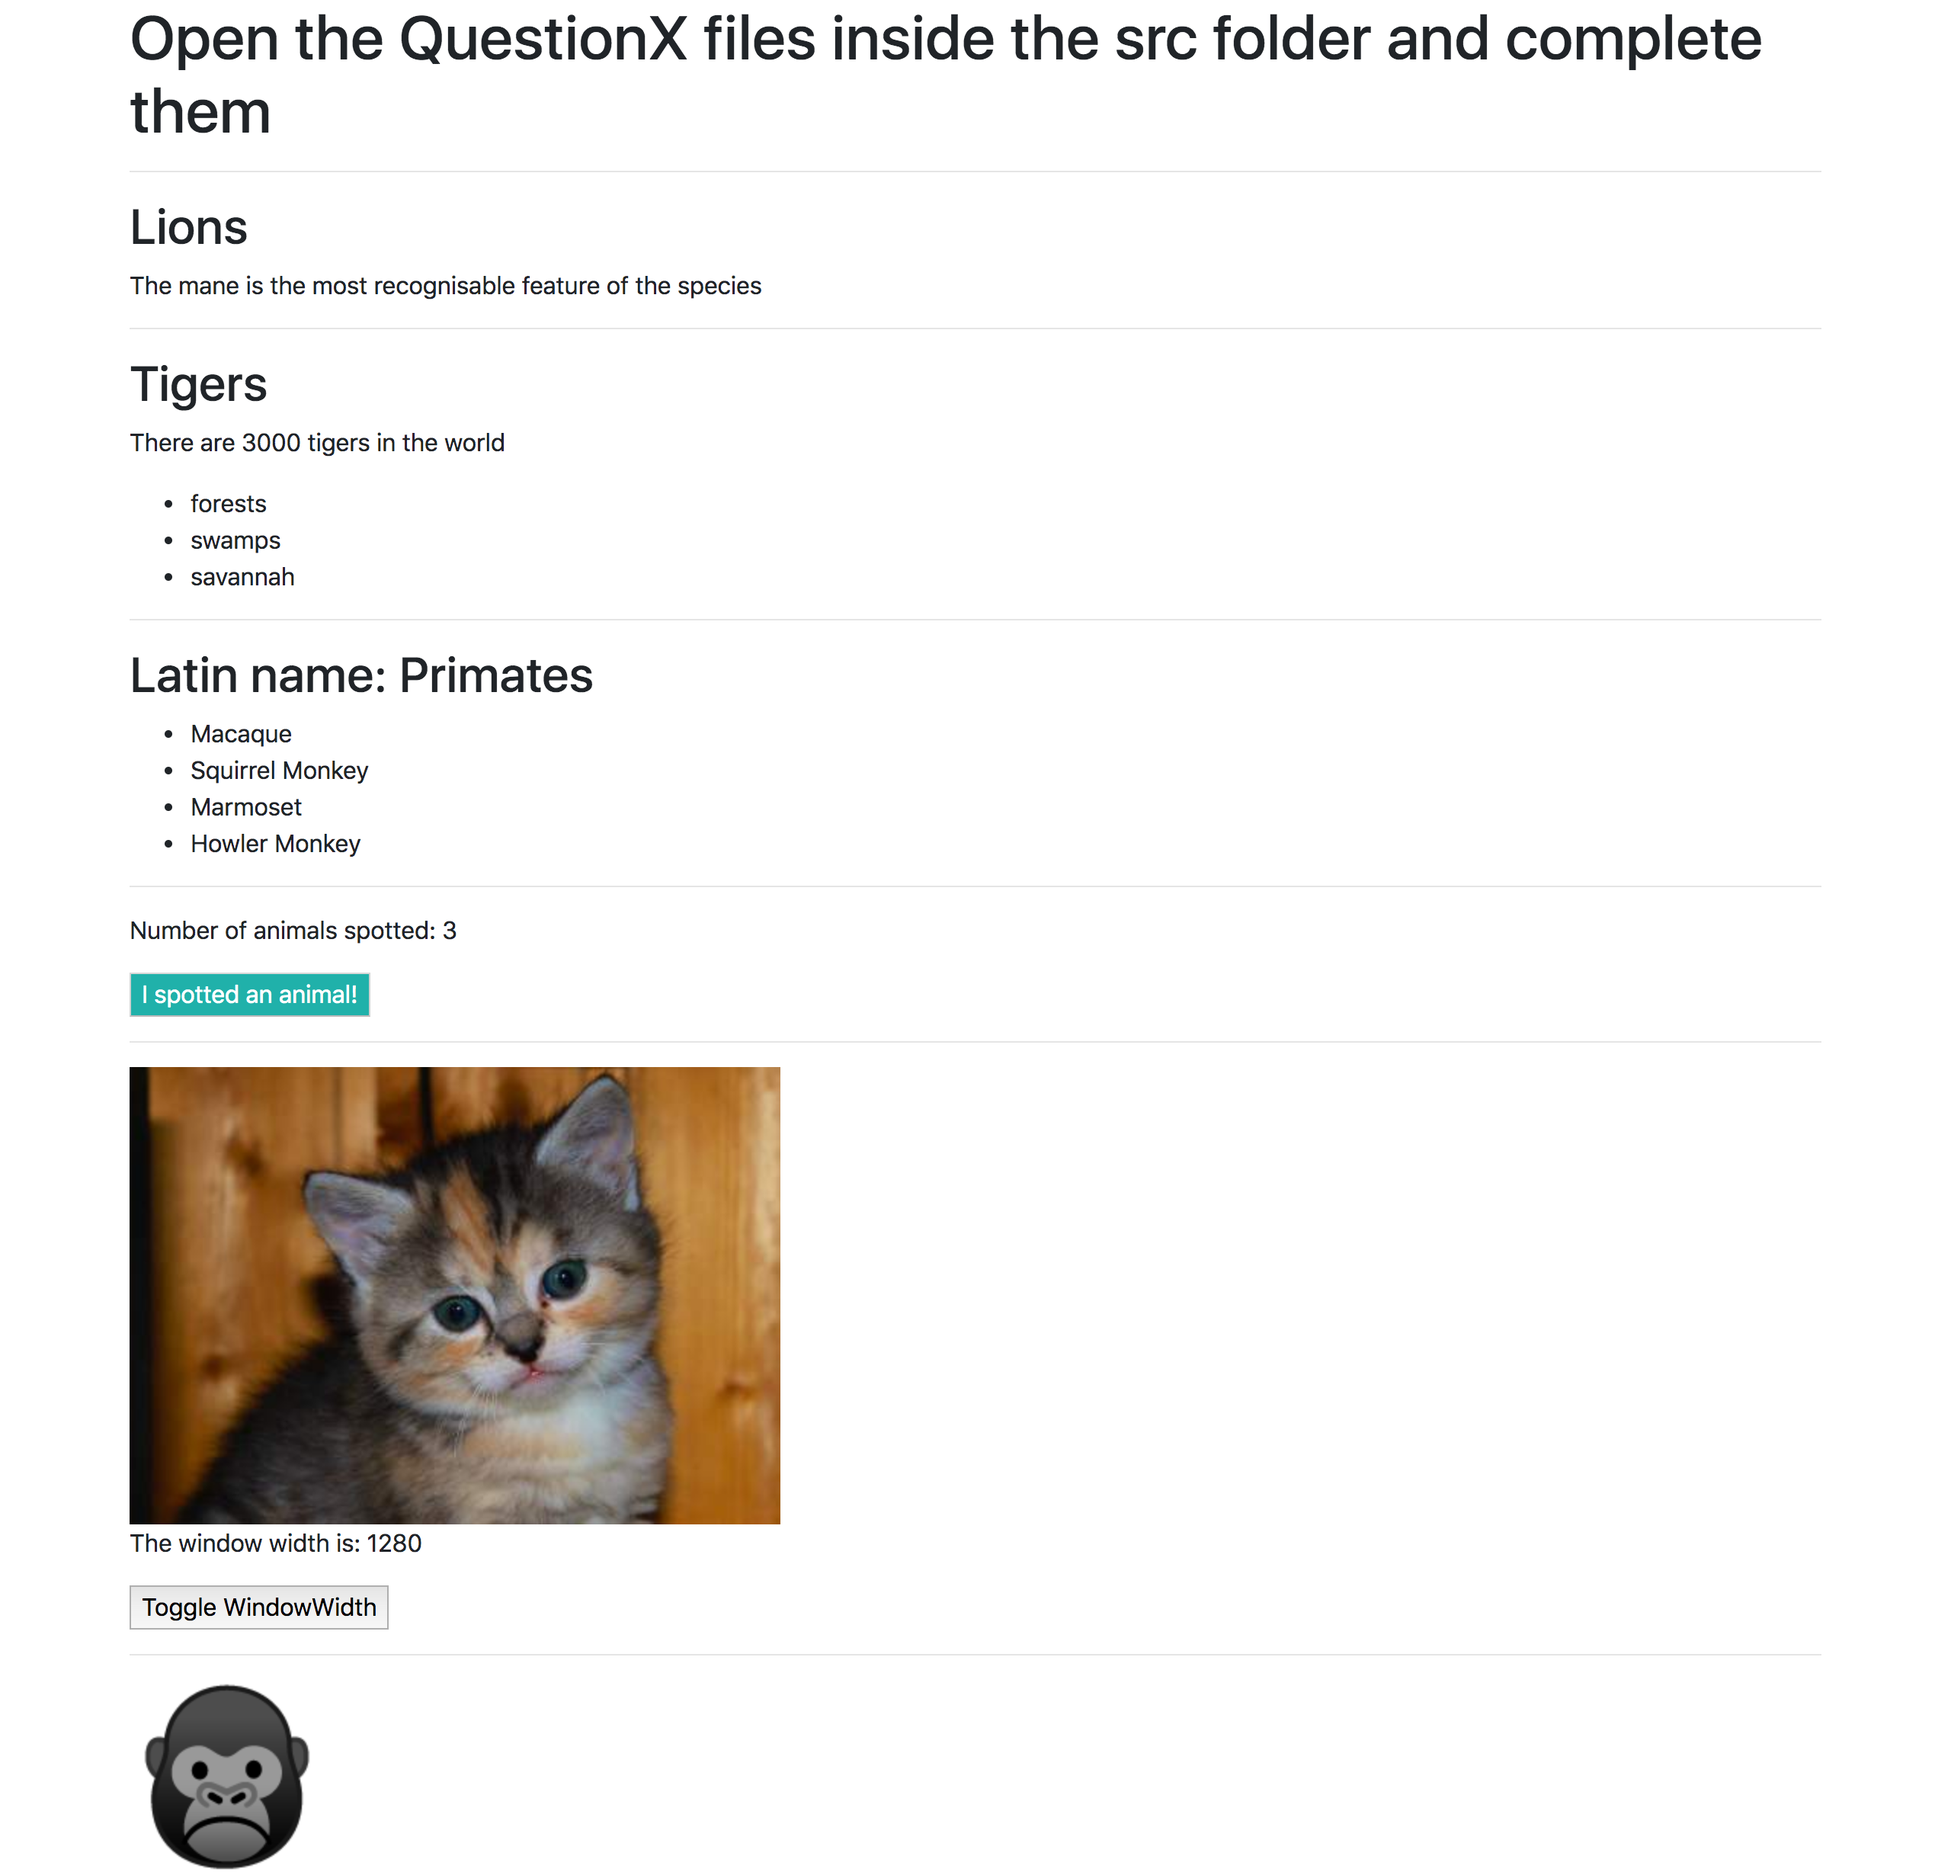
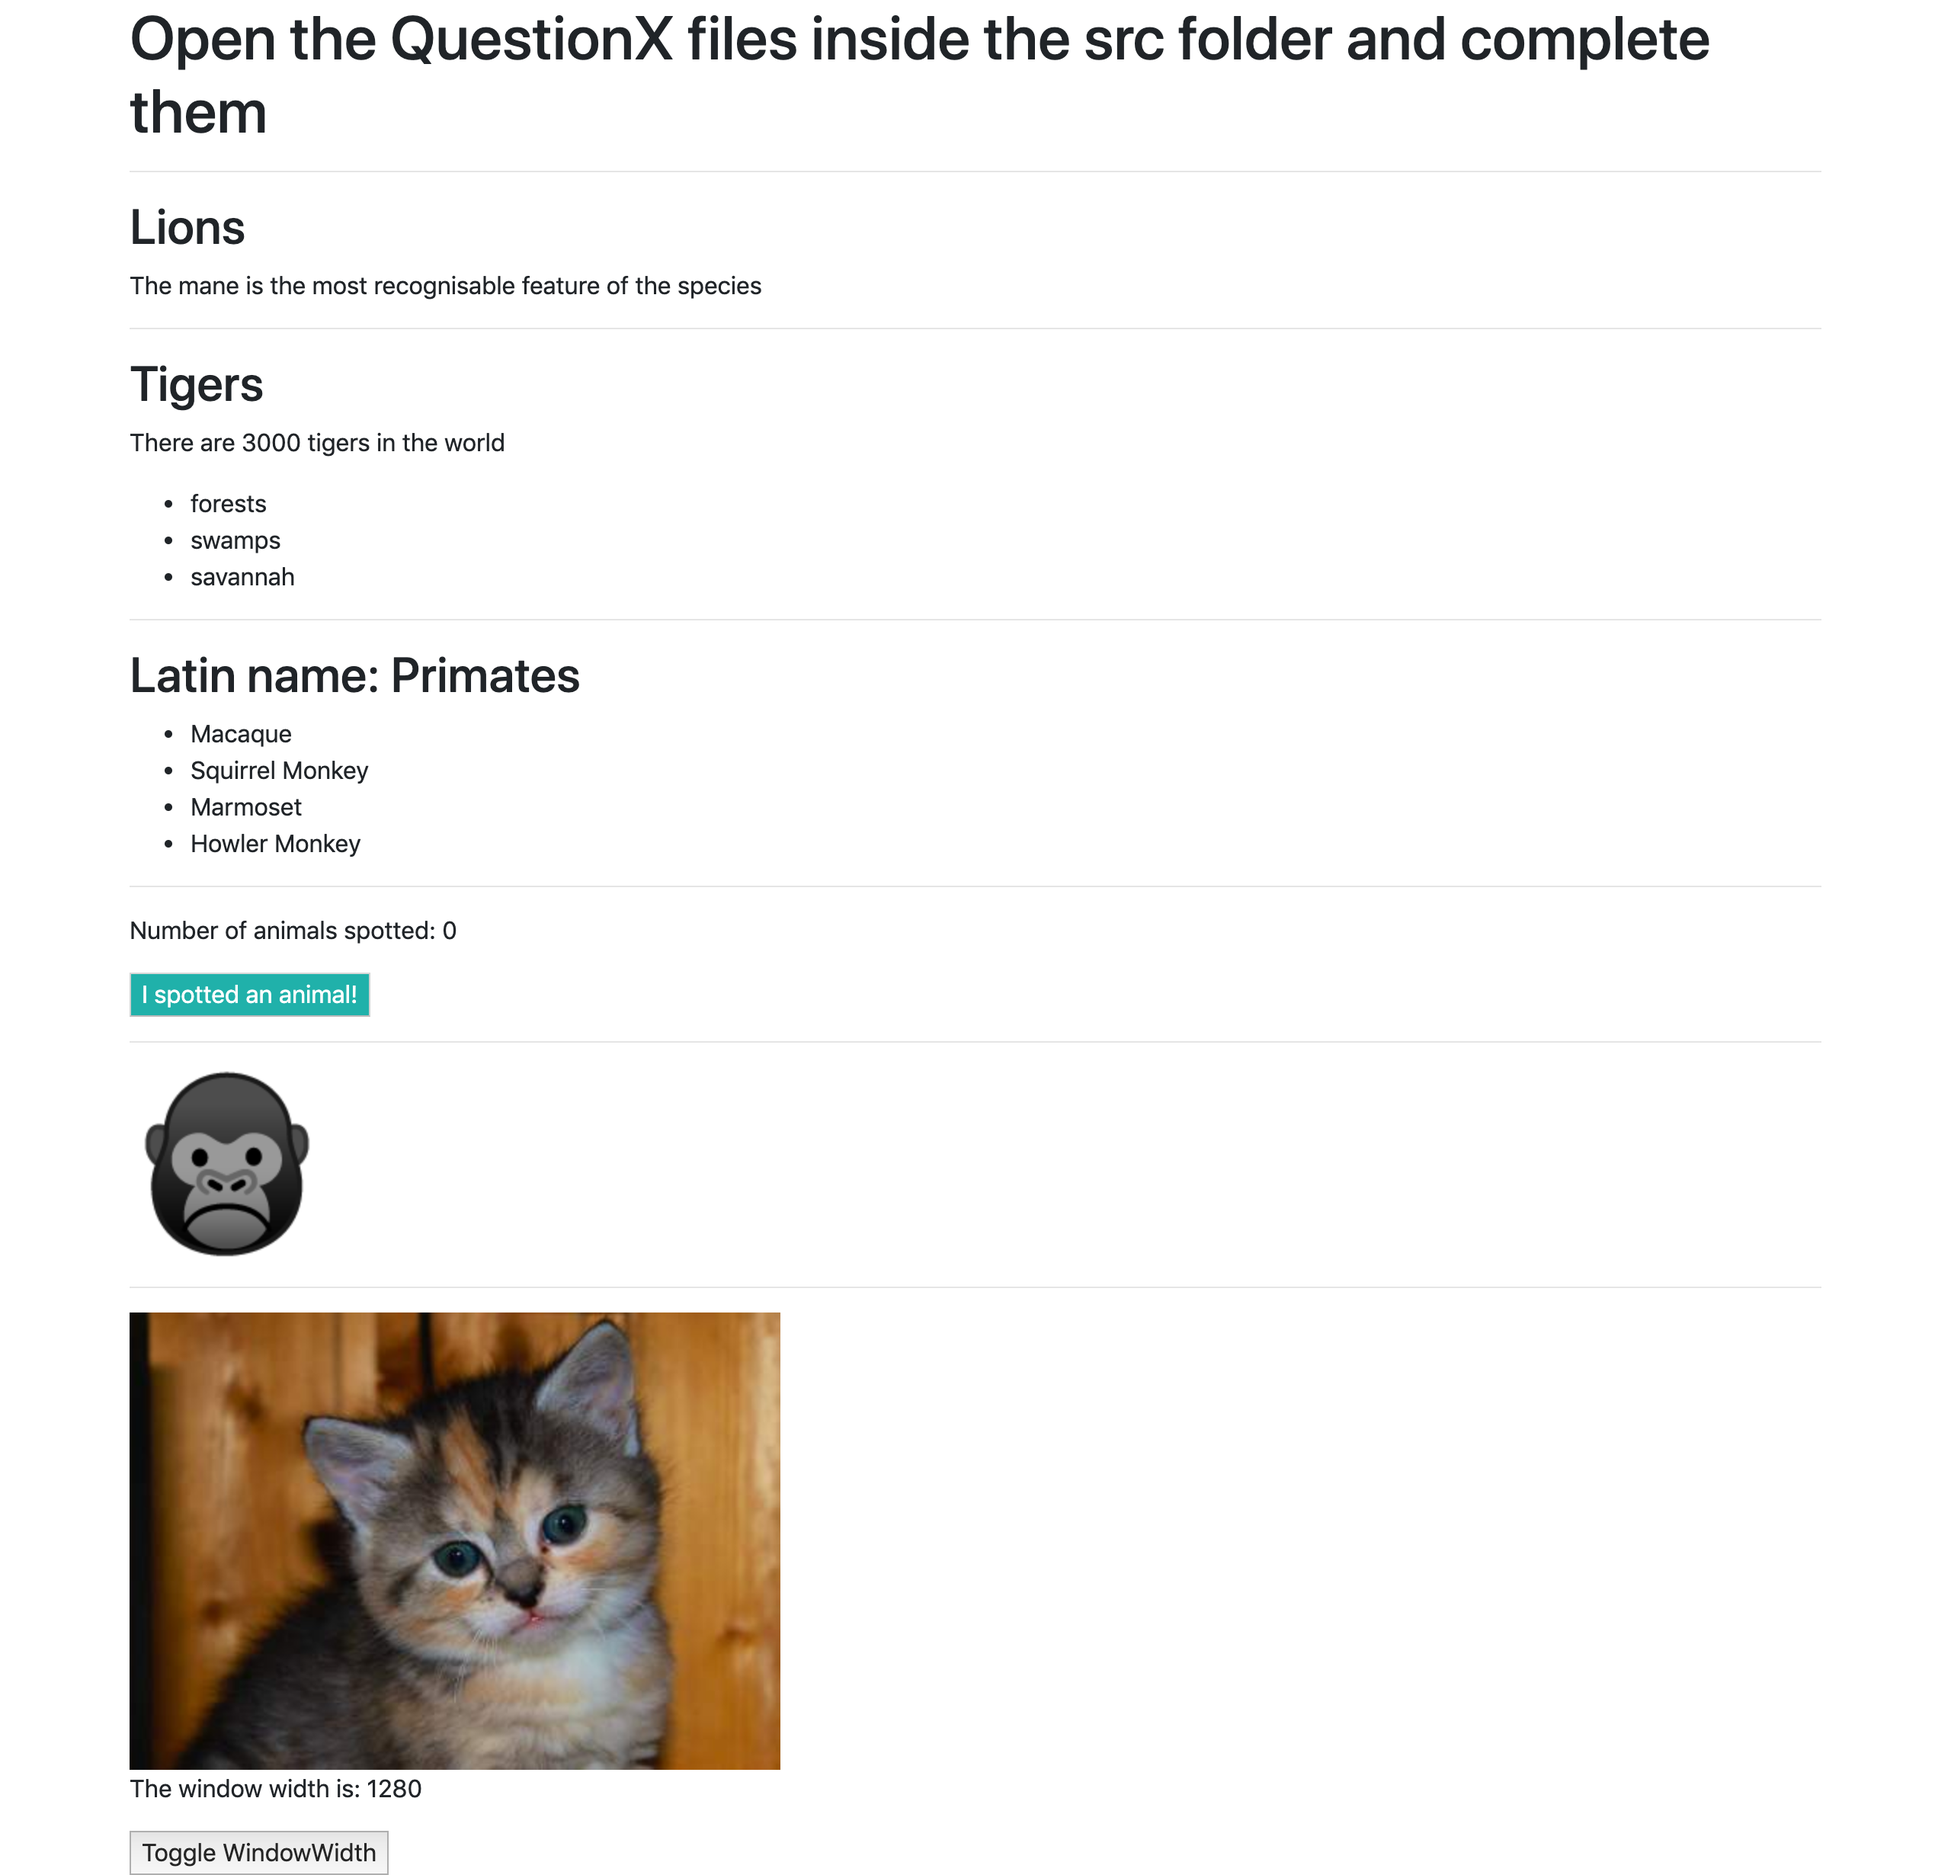
Add missing prop and reorder questions
- Added alt prop to image to prevent distracting errors
 - Switched the order of sections in the rendered output to match questions
 - Updated screenshot accordingly

diff --git a/src/Quiz.js b/src/Quiz.js
@@ -55,12 +55,12 @@ class Quiz extends Component {
         <hr />
         <AnimalSpotter />
         <hr />
+        <ImageGallery />
+        <hr />
         <div>
           {this.state.isShowingWindowWidth ? <WindowSize /> : null}
           <button onClick={this.toggleWindowWidth}>Toggle WindowWidth</button>
         </div>
-        <hr />
-        <ImageGallery />
       </div>
     );
   }

diff --git a/src/Question7-WindowSize.js b/src/Question7-WindowSize.js
@@ -38,7 +38,7 @@ export class WindowSize extends Component {
 
     return (
       <div>
-        <img src={`http://placekitten.com/${imgWidth}/300`} />
+        <img src={`http://placekitten.com/${imgWidth}/300`} alt="Kitten" />
         <p>The window width is: {this.state.windowWidth}</p>
       </div>
     );
